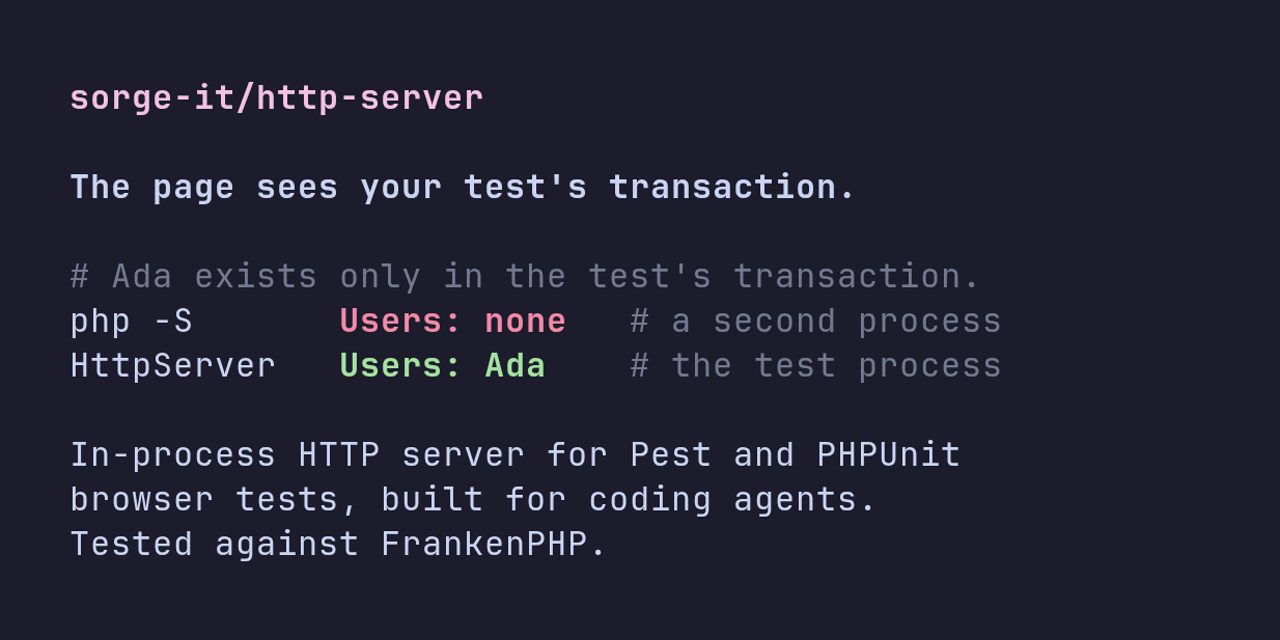
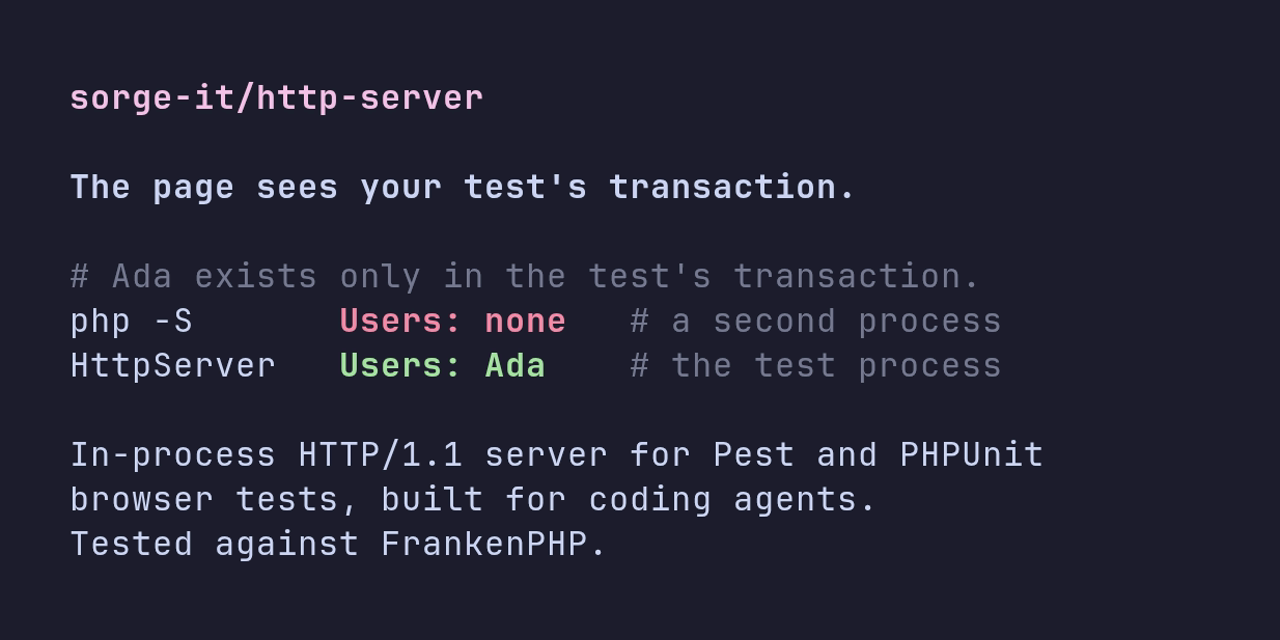
docs: the social preview says HTTP/1.1 server, as the README does (#15)
The card was the one public place that still said "HTTP server". Recorded again with make -C demo png.

Changed region(s): [[0.2812, 0.6875, 0.8125, 0.75]]

diff --git a/demo/app/social.php b/demo/app/social.php
@@ -14,6 +14,6 @@ echo "  \033[1mThe page sees your test's transaction.\033[0m\n\n";
 echo "  \033[2m# Ada exists only in the test's transaction.\033[0m\n";
 echo "  php -S       \033[1;31m".implode(' ', $second)."\033[0m   \033[2m# a second process\033[0m\n";
 echo "  HttpServer   \033[1;32m".implode(' ', $same)."\033[0m    \033[2m# the test process\033[0m\n\n";
-echo "  In-process HTTP server for Pest and PHPUnit\n";
+echo "  In-process HTTP/1.1 server for Pest and PHPUnit\n";
 echo "  browser tests, built for coding agents.\n";
 echo "  Tested against FrankenPHP.\n";
